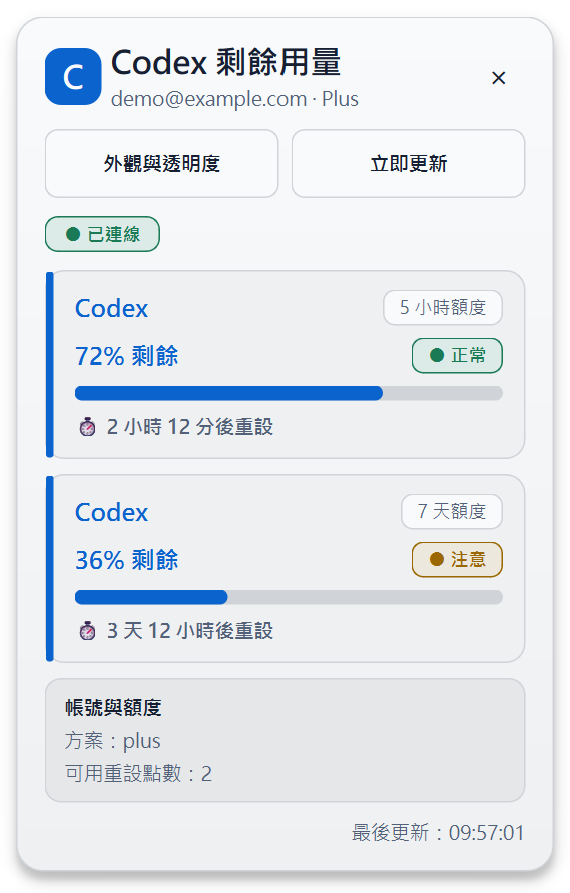
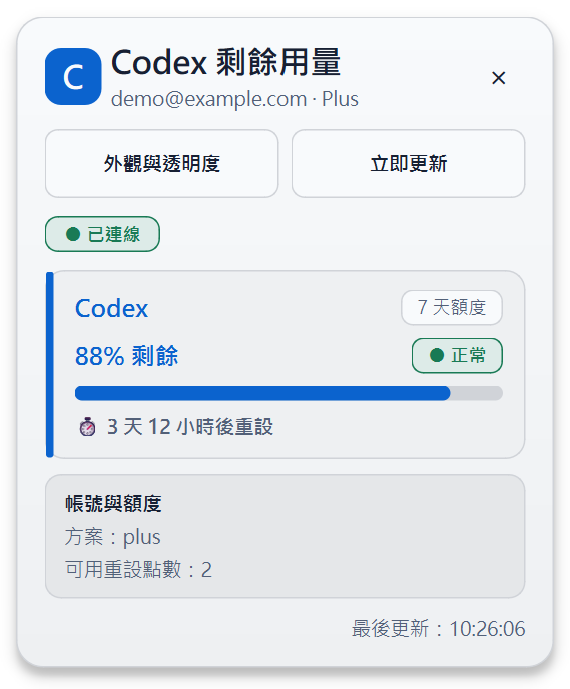
fix: remove unsupported five-hour Codex quota

diff --git a/src/codex_usage_widget/widget.py b/src/codex_usage_widget/widget.py
@@ -41,7 +41,6 @@ from codex_usage_widget.theme import build_stylesheet, is_dark_theme
 
 MIN_OPACITY_PERCENT = 35
 MAX_OPACITY_PERCENT = 100
-CODEX_QUOTA_WINDOWS_MINS = (300, 10_080)
 
 
 def format_duration(minutes: int | None) -> str:
@@ -322,7 +321,6 @@ class UsageRow(QFrame):
     def __init__(self, window: RateLimitWindowView, parent: QWidget | None = None) -> None:
         super().__init__(parent)
         self.setObjectName("UsageRow")
-        self.setProperty("available", True)
         self.window_data = window
 
         outer_layout = QHBoxLayout(self)
@@ -330,7 +328,6 @@ class UsageRow(QFrame):
         outer_layout.setSpacing(0)
         accent = QFrame()
         accent.setObjectName("UsageAccent")
-        accent.setProperty("available", True)
         accent.setFixedWidth(5)
         accent.setSizePolicy(QSizePolicy.Policy.Fixed, QSizePolicy.Policy.Expanding)
         outer_layout.addWidget(accent)
@@ -402,67 +399,6 @@ class UsageRow(QFrame):
         self.reset_label.setToolTip(format_absolute_time(timestamp))
 
 
-class UnavailableUsageRow(QFrame):
-    """Keep an expected quota window visible without inventing a percentage."""
-
-    def __init__(
-        self,
-        label: str,
-        window_duration_mins: int,
-        parent: QWidget | None = None,
-    ) -> None:
-        super().__init__(parent)
-        self.setObjectName("UsageRow")
-        self.setProperty("available", False)
-        self.window_duration_mins = window_duration_mins
-
-        outer_layout = QHBoxLayout(self)
-        outer_layout.setContentsMargins(0, 0, 0, 0)
-        outer_layout.setSpacing(0)
-        accent = QFrame()
-        accent.setObjectName("UsageAccent")
-        accent.setProperty("available", False)
-        accent.setFixedWidth(5)
-        accent.setSizePolicy(QSizePolicy.Policy.Fixed, QSizePolicy.Policy.Expanding)
-        outer_layout.addWidget(accent)
-
-        body = QWidget()
-        layout = QVBoxLayout(body)
-        layout.setContentsMargins(14, 11, 14, 11)
-        layout.setSpacing(7)
-        outer_layout.addWidget(body, 1)
-
-        heading = QHBoxLayout()
-        self.title_label = QLabel(label)
-        self.title_label.setObjectName("UsageTitle")
-        self.title_label.setWordWrap(True)
-        self.duration_label = QLabel(format_quota_window(window_duration_mins))
-        self.duration_label.setObjectName("WindowChip")
-        heading.addWidget(self.title_label, 1)
-        heading.addWidget(self.duration_label, 0, Qt.AlignmentFlag.AlignRight)
-        layout.addLayout(heading)
-
-        value_row = QHBoxLayout()
-        self.value_label = QLabel("— 等待資料")
-        self.value_label.setObjectName("UsageUnavailable")
-        self.status_badge = QLabel("○ 尚未提供")
-        self.status_badge.setObjectName("StatusBadge")
-        self.status_badge.setProperty("severity", "unavailable")
-        value_row.addWidget(self.value_label)
-        value_row.addStretch(1)
-        value_row.addWidget(self.status_badge)
-        layout.addLayout(value_row)
-
-        self.detail_label = QLabel("本次 app-server 回應未包含此時間窗，更新後會自動顯示。")
-        self.detail_label.setObjectName("Metadata")
-        self.detail_label.setWordWrap(True)
-        layout.addWidget(self.detail_label)
-
-        duration_text = format_quota_window(window_duration_mins)
-        self.setAccessibleName(f"{label} {duration_text}")
-        self.setAccessibleDescription("Codex app-server 尚未提供這個額度時間窗的資料")
-
-
 class FloatingUsageWidget(QWidget):
     refresh_requested = Signal()
     login_requested = Signal()
@@ -481,7 +417,6 @@ class FloatingUsageWidget(QWidget):
         self.autostart = autostart
         self._snapshot: UsageSnapshot | None = None
         self._usage_rows: list[UsageRow] = []
-        self._unavailable_rows: list[UnavailableUsageRow] = []
         self._quitting = False
         self._position_initialized = False
         self._opacity_percent = self._load_opacity_setting()
@@ -755,43 +690,17 @@ class FloatingUsageWidget(QWidget):
         self.error_banner.hide()
         self._clear_layout(self.content_layout)
         self._usage_rows.clear()
-        self._unavailable_rows.clear()
 
-        windows = list(snapshot.windows)
-        codex_label = next(
-            (window.label for window in windows if window.limit_id.casefold() == "codex"),
-            "Codex",
-        )
-        standard_windows: dict[int, tuple[int, RateLimitWindowView]] = {}
-        for index, window in enumerate(windows):
-            duration = window.window_duration_mins
-            if (
-                window.limit_id.casefold() == "codex"
-                and duration in CODEX_QUOTA_WINDOWS_MINS
-                and duration not in standard_windows
-            ):
-                standard_windows[duration] = (index, window)
-
-        rendered_indexes: set[int] = set()
-        for duration in CODEX_QUOTA_WINDOWS_MINS:
-            matched = standard_windows.get(duration)
-            if matched is None:
-                row = UnavailableUsageRow(codex_label, duration)
+        if snapshot.windows:
+            for window in snapshot.windows:
+                row = UsageRow(window)
                 self.content_layout.addWidget(row)
-                self._unavailable_rows.append(row)
-                continue
-            index, window = matched
-            rendered_indexes.add(index)
-            row = UsageRow(window)
-            self.content_layout.addWidget(row)
-            self._usage_rows.append(row)
-
-        for index, window in enumerate(windows):
-            if index in rendered_indexes:
-                continue
-            row = UsageRow(window)
-            self.content_layout.addWidget(row)
-            self._usage_rows.append(row)
+                self._usage_rows.append(row)
+        else:
+            empty = QLabel("伺服器沒有回傳可顯示的用量時間窗。")
+            empty.setObjectName("Muted")
+            empty.setWordWrap(True)
+            self.content_layout.addWidget(empty)
 
         metadata = self._metadata_lines(snapshot)
         if metadata:

diff --git a/tests/test_widget.py b/tests/test_widget.py
@@ -28,7 +28,7 @@ def make_snapshot() -> UsageSnapshot:
                 window_kind="primary",
                 used_percent=75,
                 remaining_percent=25,
-                window_duration_mins=300,
+                window_duration_mins=10_080,
                 resets_at=2_000_000_000,
             ),
         ),
@@ -39,9 +39,9 @@ def make_snapshot() -> UsageSnapshot:
 
 
 def test_formatters_and_severity() -> None:
-    assert format_duration(300) == "5 小時"
+    assert format_duration(10_080) == "7 天"
     assert format_duration(None) == "時間窗未知"
-    assert format_quota_window(300) == "5 小時額度"
+    assert format_quota_window(10_080) == "7 天額度"
     assert format_quota_window(None) == "額度時間窗未知"
     assert format_countdown(1_061, now=1_000) == "1 分 1 秒後重設"
     assert severity_for(make_snapshot().windows[0]) == ("warning", "注意")
@@ -63,20 +63,17 @@ def test_widget_is_topmost_and_renders_snapshot(qtbot, tmp_path) -> None:
     assert widget._usage_rows[0].percent_label.property("important") is True
     assert widget._usage_rows[0].reset_label.property("important") is True
     assert widget._usage_rows[0].progress_bar.property("important") is True
-    assert widget._usage_rows[0].duration_label.text() == "5 小時額度"
-    assert len(widget._unavailable_rows) == 1
-    assert widget._unavailable_rows[0].duration_label.text() == "7 天額度"
-    assert widget._unavailable_rows[0].value_label.text() == "— 等待資料"
+    assert widget._usage_rows[0].duration_label.text() == "7 天額度"
 
 
-def test_five_hour_and_seven_day_quotas_are_always_shown_together(qtbot, tmp_path) -> None:
+def test_widget_does_not_invent_missing_quota_windows(qtbot, tmp_path) -> None:
     settings = QSettings(str(tmp_path / "settings.ini"), QSettings.Format.IniFormat)
     autostart = AutostartManager(FakeRegistry(), executable="widget.exe", frozen=False)
     widget = FloatingUsageWidget(settings, autostart, enable_tray=False)
     qtbot.addWidget(widget)
     widget.show()
 
-    only_seven_day = UsageSnapshot(
+    snapshot = UsageSnapshot(
         windows=(
             RateLimitWindowView(
                 limit_id="codex",
@@ -89,38 +86,12 @@ def test_five_hour_and_seven_day_quotas_are_always_shown_together(qtbot, tmp_pat
             ),
         )
     )
-    widget.set_snapshot(only_seven_day)
+    widget.set_snapshot(snapshot)
 
-    assert [row.duration_label.text() for row in widget._unavailable_rows] == ["5 小時額度"]
-    assert [row.duration_label.text() for row in widget._usage_rows] == ["7 天額度"]
-    assert widget.content_layout.itemAt(0).widget() is widget._unavailable_rows[0]
-    assert widget.content_layout.itemAt(1).widget() is widget._usage_rows[0]
-
-    both_windows = UsageSnapshot(
-        windows=(
-            only_seven_day.windows[0],
-            RateLimitWindowView(
-                limit_id="codex",
-                label="Codex",
-                window_kind="secondary",
-                used_percent=28,
-                remaining_percent=72,
-                window_duration_mins=300,
-                resets_at=2_000_000_000,
-            ),
-        )
-    )
-    widget.set_snapshot(both_windows)
-
-    assert widget._unavailable_rows == []
-    assert [row.duration_label.text() for row in widget._usage_rows] == [
-        "5 小時額度",
-        "7 天額度",
-    ]
-    assert [row.percent_label.text() for row in widget._usage_rows] == [
-        "72% 剩餘",
-        "92% 剩餘",
-    ]
+    assert len(widget._usage_rows) == 1
+    assert widget._usage_rows[0].duration_label.text() == "7 天額度"
+    assert widget._usage_rows[0].percent_label.text() == "92% 剩餘"
+    assert widget.content_layout.itemAt(0).widget() is widget._usage_rows[0]
 
 
 def test_appearance_preview_cannot_be_mistaken_for_live_usage(qtbot) -> None:

diff --git a/src/codex_usage_widget/theme.py b/src/codex_usage_widget/theme.py
@@ -229,17 +229,10 @@ def build_stylesheet(dark: bool, important_text_override: str | None = None) -> 
             border: 1px solid {outline_soft};
             border-radius: 13px;
         }}
-        QFrame#UsageRow[available="false"] {{
-            background: {surface_deep};
-            border-style: dashed;
-        }}
         QFrame#UsageAccent {{
             background: {token.important_text};
             border: none;
             border-radius: 2px;
-        }}
-        QFrame#UsageAccent[available="false"] {{
-            background: {outline_soft};
         }}
         QFrame#MetadataCard {{
             background: {surface_deep};
@@ -252,11 +245,6 @@ def build_stylesheet(dark: bool, important_text_override: str | None = None) -> 
         }}
         QLabel#UsagePercent {{
             font-weight: 650;
-        }}
-        QLabel#UsageUnavailable {{
-            color: {token.on_surface_muted};
-            font-size: 15pt;
-            font-weight: 600;
         }}
         QLabel#WindowChip {{
             color: {token.on_surface_muted};
@@ -406,11 +394,6 @@ def build_stylesheet(dark: bool, important_text_override: str | None = None) -> 
             background: {critical_soft};
             border-color: {token.critical};
             font-weight: 600;
-        }}
-        QLabel#StatusBadge[severity="unavailable"] {{
-            color: {token.on_surface_muted};
-            background: {surface_deep};
-            border-color: {outline_soft};
         }}
         QLabel[important="true"] {{
             color: {token.important_text};

diff --git a/scripts/render-codex-preview.py b/scripts/render-codex-preview.py
@@ -48,17 +48,8 @@ def main() -> int:
                         limit_id="codex",
                         label="Codex",
                         window_kind="primary",
-                        used_percent=28,
-                        remaining_percent=72,
-                        window_duration_mins=300,
-                        resets_at=now + 7_920,
-                    ),
-                    RateLimitWindowView(
-                        limit_id="codex",
-                        label="Codex",
-                        window_kind="secondary",
-                        used_percent=64,
-                        remaining_percent=36,
+                        used_percent=12,
+                        remaining_percent=88,
                         window_duration_mins=10_080,
                         resets_at=now + 302_400,
                     ),

diff --git a/README.md b/README.md
@@ -17,8 +17,8 @@
 
 - 無標題列、永遠置頂、可拖曳的浮動卡片。
 - 多限額桶與 primary/secondary 時間窗。
-- Codex 固定同時保留 5 小時與 7 天額度區塊；每個百分比分別計算，不應互相相加。若
-  app-server 暫時未提供其中一個時間窗，該列會顯示「等待資料」，而不會偽造百分比。
+- Codex 只顯示 app-server 實際回傳的額度時間窗，不自行假設或建立 5 小時額度；各百分比
+  分別計算，不應互相相加。
 - ChatGPT 瀏覽器登入；憑證完全由 Codex CLI 管理。
 - app-server 事件更新加上每 60 秒完整校正。
 - 系統匣、單一執行個體與打包版 Windows 自動啟動。
